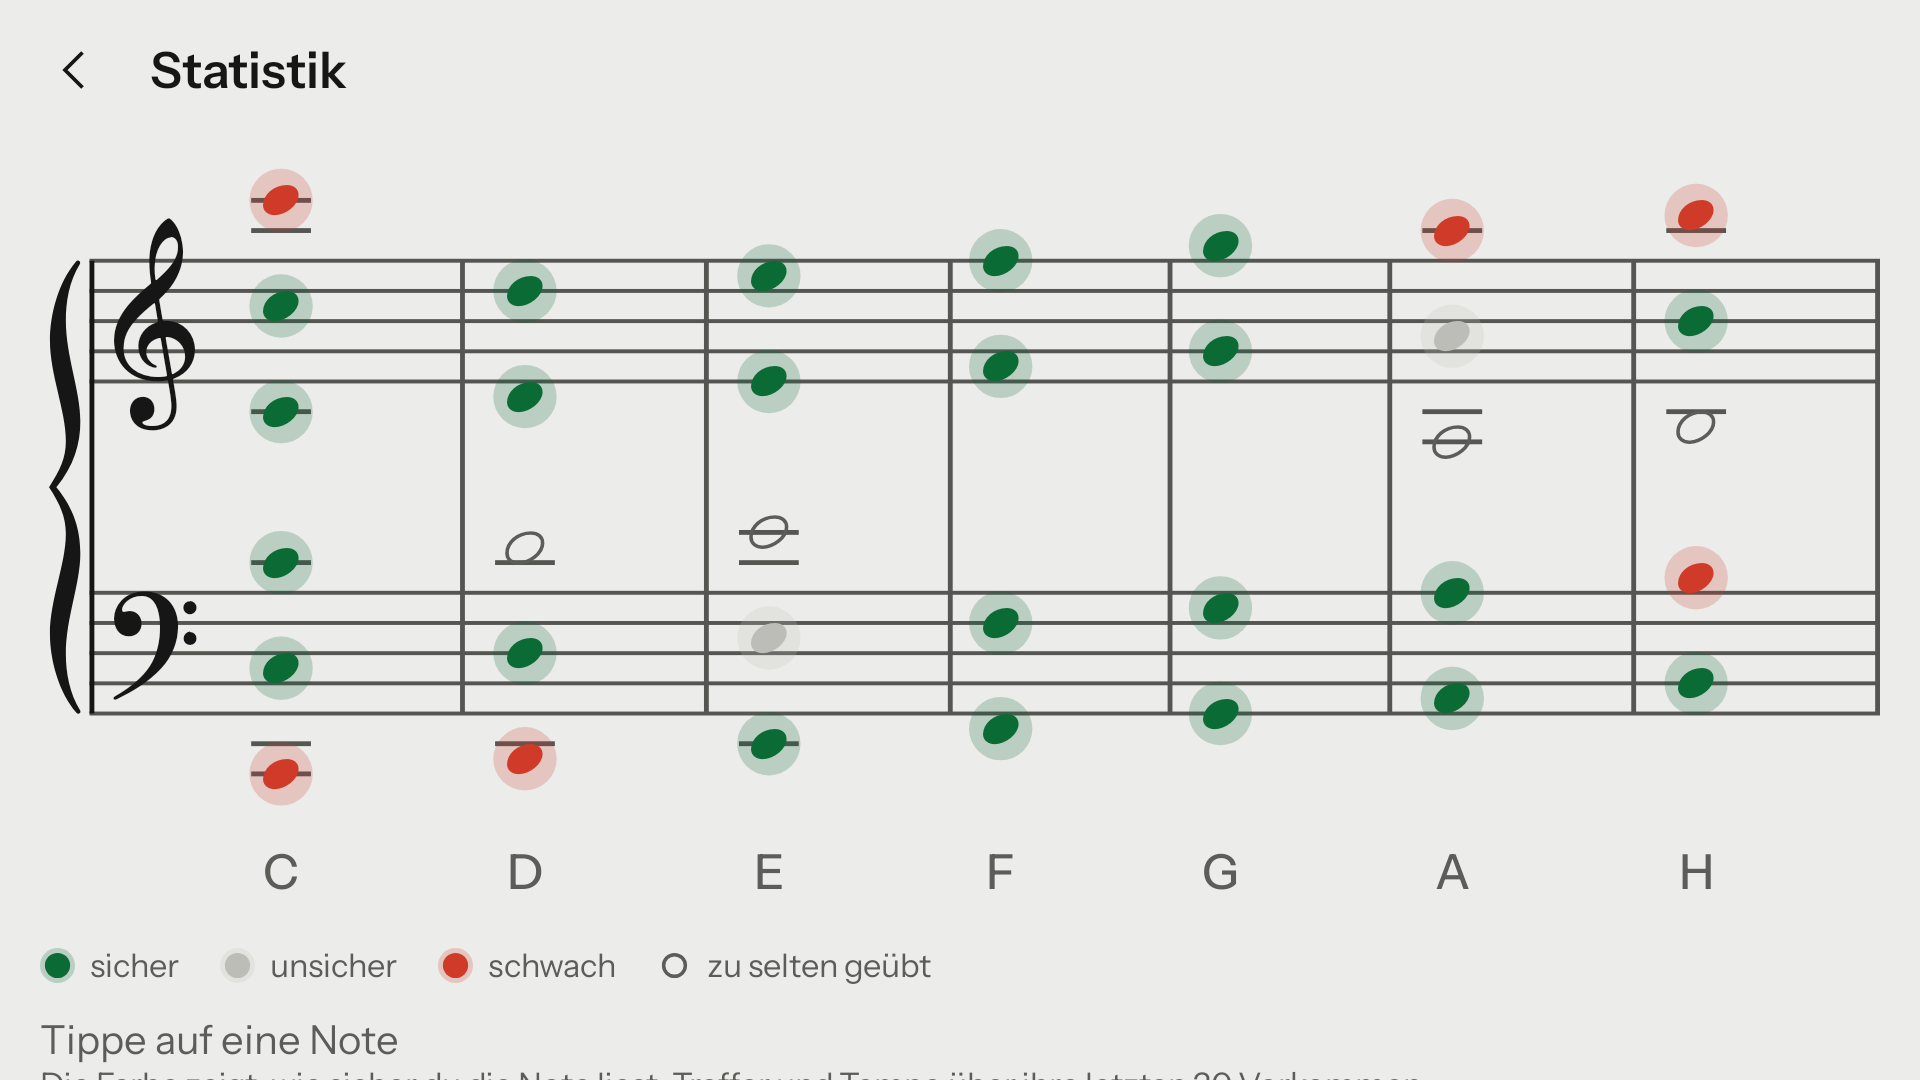
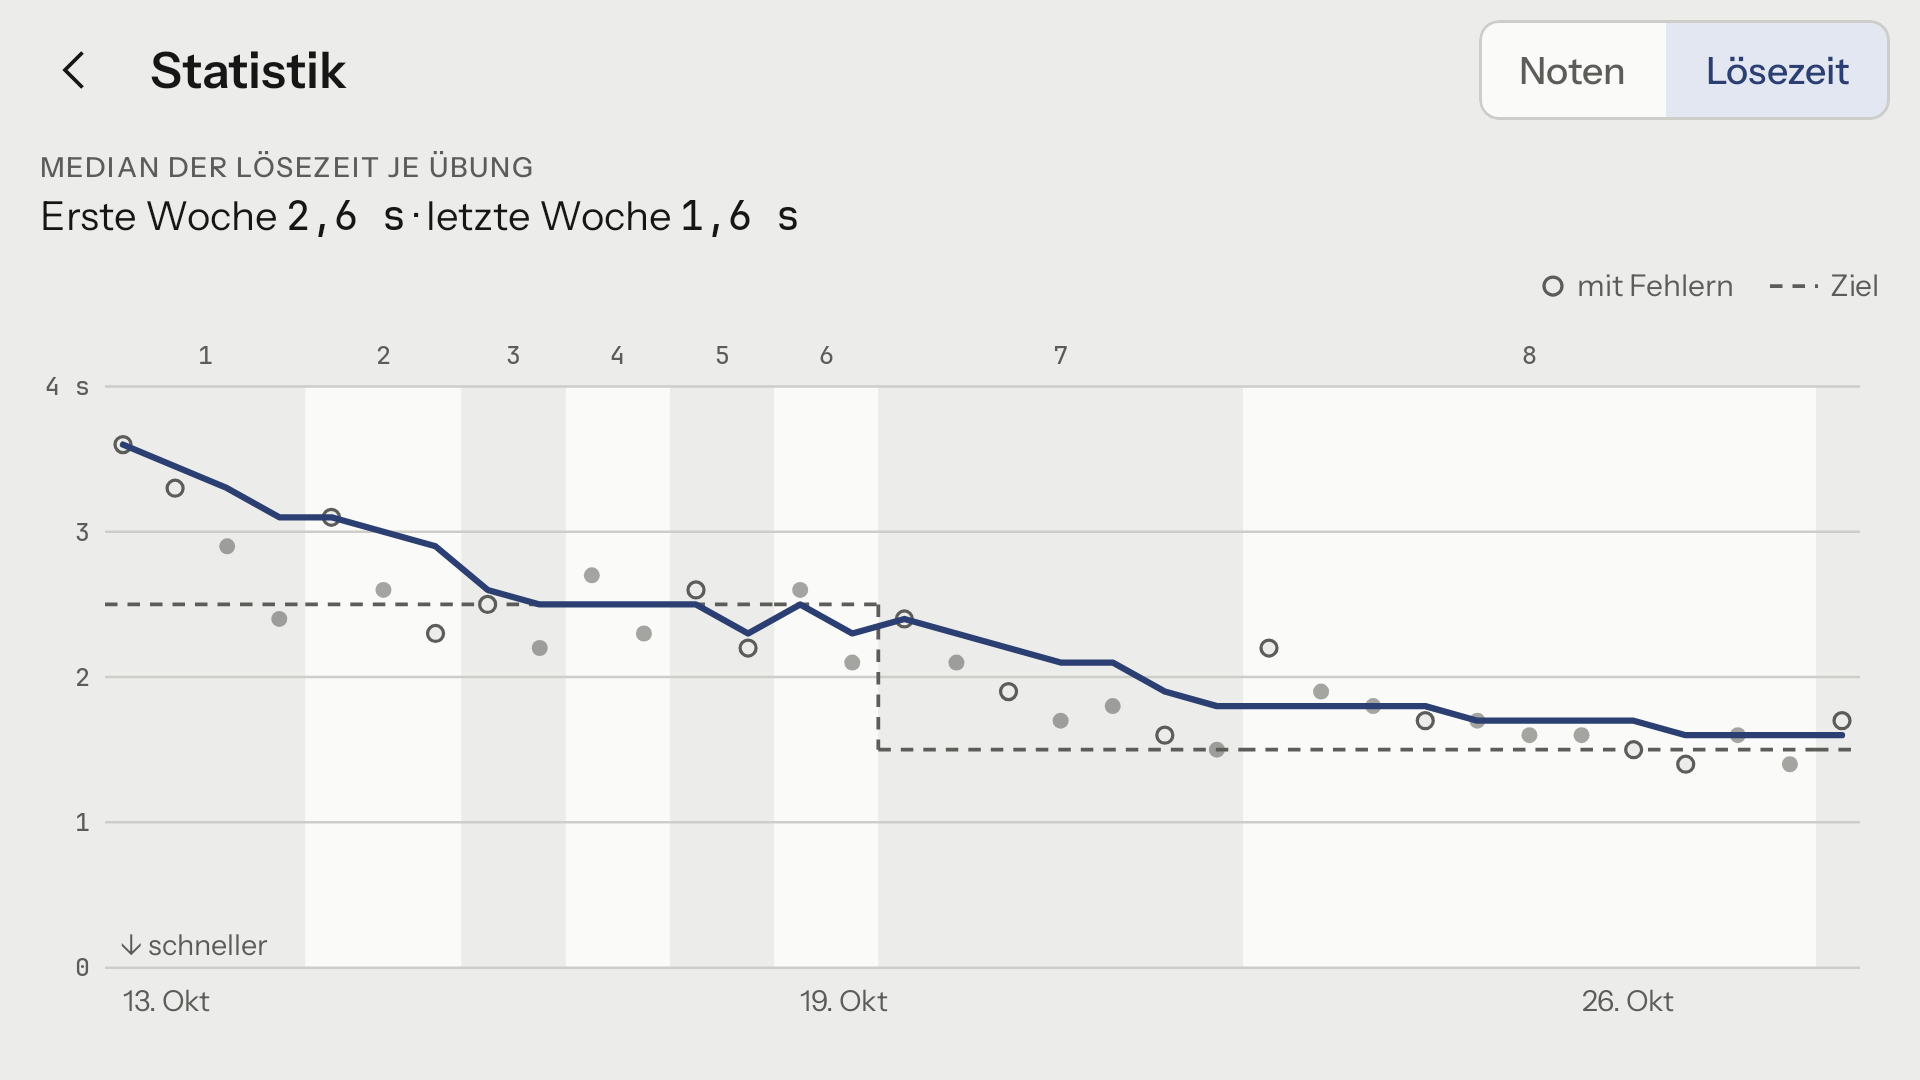
feat(home): Startseite und Ratgeber 5 für 1.1.0
Grundlagen im Readout „Frei 1–9“, neue Datenblatt-Zeile „Vorwissen“,
Vollversion „Die Grundlagen und Level 1 bis 9 sind frei“, neue zweite
Frage „Ich kann noch gar keine Noten lesen. Geht das?“ (DE und EN).
„So sieht es aus“ zeigt Grundlagen-Einheit · Übung · Statistik mit
Lösezeit-Kurve aus den Play-Store-Bildern 2_basics, 1_exercise und
5_statistics; result.png fällt weg, weil nur die Startseite es nutzte.
Ratgeber 5 nennt die Grundlagen im Stavewise-Absatz und im Preis-Satz.

stavewise#924

diff --git a/src/texts/home.ts b/src/texts/home.ts
@@ -7,6 +7,8 @@ import type { Lang, PageName } from '../lib/i18n';
 // store listing (open question 1 in #591, Leo checks it in the [Leo] PR).
 // No "real melodies", no price, no "never" (#539, #542 decision 7).
 // German is gender-inclusive with the colon: Tester:in, Klavierlehrer:innen.
+// Release 1.1.0 (launch § 6.1 and its addendum, stavewise#924): the basics in the
+// readout, the data sheet, the full-version card, the second question and the screenshots.
 
 export interface Readout {
   label: string;
@@ -45,9 +47,9 @@ export interface HomeTexts {
   /** Rows of the data sheet: [what, answer]. */
   sheet: readonly (readonly [string, string])[];
   shotsTitle: string;
-  shotAlts: { exercise: string; result: string; statistics: string };
+  shotAlts: { basics: string; exercise: string; statistics: string };
   /** Short caption line under each screenshot, after its figure number. */
-  shotCaptions: { exercise: string; result: string; statistics: string };
+  shotCaptions: { basics: string; exercise: string; statistics: string };
   waysTitle: string;
   ways: readonly Way[];
   fullLabel: string;
@@ -79,13 +81,14 @@ export const home: Record<Lang, HomeTexts> = {
     scoreLabel: 'Notenbeispiel in B-Dur, beide Hände: Die Markierung wartet auf jeder Note, bis die richtigen Tasten gedrückt sind. Richtig gespielte Noten werden grün, ein Fehlgriff erscheint rot.',
     readouts: [
       { label: 'Level', value: '65', note: 'vom ersten Schlüssel bis Moll mit Umkehrungen' },
-      { label: 'Frei', value: '1–9', note: 'Level ohne Kauf, dazu Statistik und Streak' },
+      { label: 'Frei', value: '1–9', note: 'Level ohne Kauf, dazu Grundlagen, Statistik und Streak' },
       { label: 'Android', value: '12+', note: 'Phone quer, Tablet in beide Richtungen' },
       { label: 'Konto', value: 'keines', spelled: true, note: 'offline, die App schickt nichts an uns' },
     ],
     sheetTitle: 'Was Stavewise macht',
     sheet: [
       ['Was du liest', 'Melodien mit Kadenz'],
+      ['Vorwissen', 'keines, die Grundlagen fangen bei den Tasten an'],
       ['Notensystem', 'Klaviersystem ab Tag 1'],
       ['Wie du antwortest', 'am E-Piano, per MIDI'],
       ['Bezahlen', 'einmal, kein Abo'],
@@ -93,14 +96,14 @@ export const home: Record<Lang, HomeTexts> = {
     ],
     shotsTitle: 'So sieht es aus',
     shotAlts: {
+      basics: 'Grundlagen, Einheit 6 „Das G im Violinschlüssel“: Noten im Klaviersystem, darüber eine beschriftete Klaviatur und die Rückmeldung „Richtig: das G.“',
       exercise: 'Übung im Klaviersystem mitten in der Phrase, gespielte Noten grün',
-      result: 'Ergebnis: Level gemeistert, mit Genauigkeit, Lösezeit und dem nächsten Level',
-      statistics: 'Statistik als Heatmap: welche Noten du sicher liest und welche nicht',
+      statistics: 'Statistik, Ansicht Lösezeit: ein Punkt je Übung über Level 1 bis 8, die Kurve fällt von 2,6 s in der ersten auf 1,6 s in der letzten Woche',
     },
     shotCaptions: {
+      basics: 'Grundlagen: von den Tasten zu den ersten Noten.',
       exercise: 'Mitten in der Phrase: gespielte Noten werden grün.',
-      result: 'Level gemeistert, mit Genauigkeit und Lösezeit.',
-      statistics: 'Welche Noten du sicher liest und welche nicht.',
+      statistics: 'Deine Lösezeit, Übung für Übung.',
     },
     waysTitle: 'Zwei Wege zum Klavier',
     ways: [
@@ -125,7 +128,7 @@ export const home: Record<Lang, HomeTexts> = {
     ],
     fullLabel: 'Vollversion',
     fullWell: 'einmal',
-    fullText: 'Level 1 bis 9 sind frei. Die Vollversion mit allen 65 Leveln und dem Sandkasten kaufst du einmal in Google Play: kein Abo, keine Werbung.',
+    fullText: 'Die Grundlagen und Level 1 bis 9 sind frei. Die Vollversion mit allen 65 Leveln und dem Sandkasten kaufst du einmal in Google Play: kein Abo, keine Werbung.',
     teacherLabel: 'Für Klavierlehrer:innen',
     teacherTitle: 'Vollversion kostenlos',
     teacherBefore: 'Wenn du unterrichtest, schreib an',
@@ -136,6 +139,12 @@ export const home: Record<Lang, HomeTexts> = {
         question: 'Passt mein Klavier?',
         answers: [
           'Wenn es eine USB-Buchse „USB to Host“ hat oder Bluetooth-MIDI, sehr wahrscheinlich. Für USB brauchst du zusätzlich einen OTG-Adapter für dein Phone oder Tablet. Ein akustisches Klavier geht nicht.',
+        ],
+      },
+      {
+        question: 'Ich kann noch gar keine Noten lesen. Geht das?',
+        answers: [
+          'Ja. Die Grundlagen beginnen bei den schwarzen Tasten: In sieben kurzen Einheiten findest du das mittlere C und liest C und G im Violinschlüssel. Danach geht es mit Level 1 weiter. Die Grundlagen sind kostenlos.',
         ],
       },
       {
@@ -180,27 +189,28 @@ export const home: Record<Lang, HomeTexts> = {
     scoreLabel: 'Score in B-flat major, both hands: the playhead waits on each note until the right keys are pressed. Notes played correctly turn green, a wrong key shows in red.',
     readouts: [
       { label: 'Levels', value: '65', note: 'from the first clef to minor with inversions' },
-      { label: 'Free', value: '1–9', note: 'levels without buying, plus statistics and streak' },
+      { label: 'Free', value: '1–9', note: 'levels without buying, plus the basics, statistics and streak' },
       { label: 'Android', value: '12+', note: 'phone in landscape, tablet either way' },
       { label: 'Account', value: 'none', spelled: true, note: 'offline, the app sends nothing to us' },
     ],
     sheetTitle: 'What Stavewise does',
     sheet: [
       ['What you read', 'melodies with a cadence'],
+      ['Experience', 'none, the basics start at the keys'],
       ['Staff', 'grand staff from day one'],
       ['How you answer', 'on your digital piano, via MIDI'],
       ['Paying', 'once, no subscription'],
     ],
     shotsTitle: 'What it looks like',
     shotAlts: {
+      basics: 'Basics, unit 6 “G in the treble clef”: notes on the grand staff, a labelled keyboard beside them and the feedback “Right: G.”',
       exercise: 'Exercise on the grand staff in the middle of a phrase, played notes in green',
-      result: 'Result: level mastered, with accuracy, solve time and the next level',
-      statistics: 'Statistics as a heatmap: which notes you read confidently and which you don’t',
+      statistics: 'Statistics, solve time view: one dot per exercise across levels 1 to 8, the curve falls from 2.6 s in the first week to 1.6 s in the last',
     },
     shotCaptions: {
+      basics: 'Basics: from the keys to your first notes.',
       exercise: 'Mid-phrase: played notes turn green.',
-      result: 'Level mastered, with accuracy and solve time.',
-      statistics: 'Which notes you read confidently and which you don’t.',
+      statistics: 'Your solve time, exercise by exercise.',
     },
     waysTitle: 'Two ways to your piano',
     ways: [
@@ -225,7 +235,7 @@ export const home: Record<Lang, HomeTexts> = {
     ],
     fullLabel: 'Full version',
     fullWell: 'once',
-    fullText: 'Levels 1 to 9 are free. The full version with all 65 levels and the sandbox is a one-time purchase in Google Play: no subscription, no ads.',
+    fullText: 'The basics and levels 1 to 9 are free. The full version with all 65 levels and the sandbox is a one-time purchase in Google Play: no subscription, no ads.',
     teacherLabel: 'For piano teachers',
     teacherTitle: 'Full version for free',
     teacherBefore: 'If you teach, write to',
@@ -236,6 +246,12 @@ export const home: Record<Lang, HomeTexts> = {
         question: 'Will my piano work?',
         answers: [
           'If it has a “USB to Host” port or Bluetooth MIDI, very likely. For USB you also need an OTG adapter for your phone or tablet. An acoustic piano won’t work.',
+        ],
+      },
+      {
+        question: 'I can’t read music at all yet. Can I still start?',
+        answers: [
+          'Yes. The basics start at the black keys: in seven short units you find middle C and read C and G in the treble clef. Then you carry on with level 1. The basics are free.',
         ],
       },
       {

diff --git a/tests/dist/home.test.ts b/tests/dist/home.test.ts
@@ -22,18 +22,50 @@ const GUIDE_LINKS = {
   en: { ways: 'Step-by-step guide →', more: 'More' },
 } as const;
 
-/** Captions under the three screenshots: figure number, then the line. */
+/** Captions under the three screenshots: figure number, then the line (launch § 6.1 Nr. 5, from 1.1.0). */
 const CAPTIONS = {
   de: [
-    ['1', 'Mitten in der Phrase: gespielte Noten werden grün.'],
-    ['2', 'Level gemeistert, mit Genauigkeit und Lösezeit.'],
-    ['3', 'Welche Noten du sicher liest und welche nicht.'],
+    ['1', 'Grundlagen: von den Tasten zu den ersten Noten.'],
+    ['2', 'Mitten in der Phrase: gespielte Noten werden grün.'],
+    ['3', 'Deine Lösezeit, Übung für Übung.'],
   ],
   en: [
-    ['1', 'Mid-phrase: played notes turn green.'],
-    ['2', 'Level mastered, with accuracy and solve time.'],
-    ['3', 'Which notes you read confidently and which you don’t.'],
+    ['1', 'Basics: from the keys to your first notes.'],
+    ['2', 'Mid-phrase: played notes turn green.'],
+    ['3', 'Your solve time, exercise by exercise.'],
   ],
+} as const;
+
+/** Note of the readout "Frei 1–9" (launch § 6.1 Nr. 3, from 1.1.0). */
+const FREE_NOTES = {
+  de: 'Level ohne Kauf, dazu Grundlagen, Statistik und Streak',
+  en: 'levels without buying, plus the basics, statistics and streak',
+} as const;
+
+/** Second row of the data sheet (launch § 6.1 Nr. 4, from 1.1.0). */
+const EXPERIENCE_ROWS = {
+  de: ['Vorwissen', 'keines, die Grundlagen fangen bei den Tasten an'],
+  en: ['Experience', 'none, the basics start at the keys'],
+} as const;
+
+/** Start of the full-version card (launch § 6.1 Nr. 7, from 1.1.0). */
+const FULL_TEXT_STARTS = {
+  de: 'Die Grundlagen und Level 1 bis 9 sind frei.',
+  en: 'The basics and levels 1 to 9 are free.',
+} as const;
+
+/** Second question, German word for word (launch § 6.1 Nr. 8, from 1.1.0); English in the tone of the page. */
+const NO_READING = {
+  de: {
+    question: 'Ich kann noch gar keine Noten lesen. Geht das?',
+    answer:
+      'Ja. Die Grundlagen beginnen bei den schwarzen Tasten: In sieben kurzen Einheiten findest du das mittlere C und liest C und G im Violinschlüssel. Danach geht es mit Level 1 weiter. Die Grundlagen sind kostenlos.',
+  },
+  en: {
+    question: 'I can’t read music at all yet. Can I still start?',
+    answer:
+      'Yes. The basics start at the black keys: in seven short units you find middle C and read C and G in the treble clef. Then you carry on with level 1. The basics are free.',
+  },
 } as const;
 
 /** Sixth question, word for word (launch § 15.8 Nr. 3, stavewise#830). */
@@ -114,17 +146,37 @@ describe.each(['de', 'en'] as const)('/%s/ home page', (lang) => {
     expect(wells).toEqual(['65', '1–9', '12+', lang === 'de' ? 'keines' : 'none']);
   });
 
-  it('has a data sheet with five rows in German, four in English', () => {
-    expect(main().querySelectorAll('.sheet tr')).toHaveLength(lang === 'de' ? 5 : 4);
+  it('notes the basics under the free levels', () => {
+    const free = [...main().querySelectorAll('.readouts .readout')][1];
+    expect(textOf(free?.querySelector('small'))).toBe(FREE_NOTES[lang]);
   });
 
-  it('has six questions as <details>, the first one open', () => {
+  it('has a data sheet with six rows in German, five in English', () => {
+    expect(main().querySelectorAll('.sheet tr')).toHaveLength(lang === 'de' ? 6 : 5);
+  });
+
+  it('names the prior knowledge in the second row of the data sheet', () => {
+    const row = main().querySelectorAll('.sheet tr')[1];
+    expect([textOf(row?.querySelector('th')), textOf(row?.querySelector('td'))]).toEqual(EXPERIENCE_ROWS[lang]);
+  });
+
+  it('frees the basics and levels 1 to 9 on the full-version card', () => {
+    expect(textOf(main().querySelector('.split .card.price p'))?.startsWith(FULL_TEXT_STARTS[lang])).toBe(true);
+  });
+
+  it('has seven questions as <details>, the first one open', () => {
     const details = [...main().querySelectorAll('details')];
-    expect(details).toHaveLength(6);
-    expect(details.map((d) => d.hasAttribute('open'))).toEqual([true, false, false, false, false, false]);
+    expect(details).toHaveLength(7);
+    expect(details.map((d) => d.hasAttribute('open'))).toEqual([true, false, false, false, false, false, false]);
   });
 
-  it('explains early access in the sixth question and links /beta from the answer', () => {
+  it('answers readers who can’t read music yet in the second question', () => {
+    const second = main().querySelectorAll('.faq details')[1]!;
+    expect(textOf(second.querySelector('summary'))).toBe(NO_READING[lang].question);
+    expect([...second.querySelectorAll('div > p')].map((p) => textOf(p))).toEqual([NO_READING[lang].answer]);
+  });
+
+  it('explains early access in the last question and links /beta from the answer', () => {
     const last = [...main().querySelectorAll('.faq details')].at(-1)!;
     expect(textOf(last.querySelector('summary'))).toBe(EARLY_ACCESS[lang].question);
     const paragraphs = [...last.querySelectorAll('div > p')];
@@ -171,6 +223,13 @@ describe.each(['de', 'en'] as const)('/%s/ home page', (lang) => {
     expect(captions).toEqual(CAPTIONS[lang]);
   });
 
+  it('shows the basics, an exercise and the solve-time curve, in this order', () => {
+    const alts = imagesOf(doc()).map((img) => img.getAttribute('alt') ?? '');
+    const starts = lang === 'de' ? ['Grundlagen', 'Übung', 'Statistik'] : ['Basics', 'Exercise', 'Statistics'];
+    expect(alts.map((alt, i) => alt.startsWith(starts[i]!))).toEqual([true, true, true]);
+    expect(alts[2]).toMatch(lang === 'de' ? /Lösezeit/ : /solve time/);
+  });
+
   it('links the support address for teachers', () => {
     const hrefs = [...main().querySelectorAll('a')].map((a) => a.getAttribute('href'));
     expect(hrefs).toContain('mailto:support@stavewise.app');
@@ -178,11 +237,15 @@ describe.each(['de', 'en'] as const)('/%s/ home page', (lang) => {
 });
 
 describe('home page images', () => {
-  it('uses a different result screenshot in English', () => {
-    const resultOf = (lang: 'de' | 'en') => imagesOf(documentOf(`/${lang}/`))[1]?.getAttribute('src');
-    expect(resultOf('de')).toBeTruthy();
-    expect(resultOf('en')).toBeTruthy();
-    expect(resultOf('en')).not.toBe(resultOf('de'));
+  it('uses its own screenshots in English', () => {
+    const srcsOf = (lang: 'de' | 'en') => imagesOf(documentOf(`/${lang}/`)).map((img) => img.getAttribute('src'));
+    const [de, en] = [srcsOf('de'), srcsOf('en')];
+    expect(de).toHaveLength(3);
+    expect(en).toHaveLength(3);
+    de.forEach((src, i) => {
+      expect(src).toBeTruthy();
+      expect(en[i]).not.toBe(src);
+    });
   });
 
   it('ships no PNG screenshot in dist/', () => {

diff --git a/src/texts/guides/app.ts b/src/texts/guides/app.ts
@@ -3,7 +3,8 @@
 // for Android (MIDI, both hands, no subscription, offline). Other apps are named factually with the
 // date their Play listings were checked, without a table of ticks; every app claim links its Play
 // listing or the maker's help page. Stavewise comes at the end (launch § 14.3) and otherwise only in
-// the disclosure and the closing card (launch § 14.5). No amount (launch § 6.1).
+// the disclosure and the closing card (launch § 14.5). No amount (launch § 6.1). From 1.1.0 the
+// Stavewise section names the basics (launch § 6.1, addendum; stavewise#924).
 import { pathOf, type Lang } from '../../lib/i18n';
 import type { GuideTexts } from '../guide';
 import shotDe from '../../assets/screenshots/de/exercise-hero.png';
@@ -185,7 +186,7 @@ export const app: Record<Lang, GuideTexts> = {
         heading: 'Und Stavewise?',
         blocks: [
           {
-            p: 'Stavewise ist ein Trainer fürs Notenlesen: Die App zeigt kurze Melodien im Klaviersystem, du spielst sie mit beiden Händen am E-Piano, und sie prüft jede Taste per USB- oder Bluetooth-MIDI; das Piano koppelt sie selbst. Sie läuft offline und ohne Konto, auf Android ab Version 12. Zum Preis: Level 1 bis 9 frei, die Vollversion kaufst du einmal in Google Play, kein Abo.',
+            p: 'Stavewise ist ein Trainer fürs Notenlesen: Die App zeigt kurze Melodien im Klaviersystem, du spielst sie mit beiden Händen am E-Piano, und sie prüft jede Taste per USB- oder Bluetooth-MIDI; das Piano koppelt sie selbst. Sie läuft offline und ohne Konto, auf Android ab Version 12. Wer noch gar keine Noten lesen kann, fängt mit den Grundlagen an: In sieben kurzen Einheiten findest du das mittlere C und liest C und G im Violinschlüssel. Zum Preis: Grundlagen und Level 1 bis 9 frei, die Vollversion kaufst du einmal in Google Play, kein Abo.',
           },
           {
             p: 'Was sie nicht kann: Sie hört nicht über das Mikrofon, ein akustisches Klavier geht also nicht. Es gibt keine Songs und keine Fassung für das iPhone, und gerade läuft noch der offene Test. Das Bild zeigt eine Übung in B-Dur, in der beide Hände Akkorde spielen.',
@@ -373,7 +374,7 @@ export const app: Record<Lang, GuideTexts> = {
         heading: 'And Stavewise?',
         blocks: [
           {
-            p: 'Stavewise is a trainer for reading music: it shows short melodies on the grand staff, you play them with both hands on your digital piano, and it checks every key over USB or Bluetooth MIDI; it pairs the piano itself. It works offline and without an account, on Android 12 and later. On price: Levels 1 to 9 are free, you buy the full version once in Google Play, no subscription.',
+            p: 'Stavewise is a trainer for reading music: it shows short melodies on the grand staff, you play them with both hands on your digital piano, and it checks every key over USB or Bluetooth MIDI; it pairs the piano itself. It works offline and without an account, on Android 12 and later. If you can’t read music at all yet, you start with the basics: in seven short units you find middle C and read C and G in the treble clef. On price: the basics and levels 1 to 9 are free, you buy the full version once in Google Play, no subscription.',
           },
           {
             p: 'What it can’t do: it doesn’t listen through the microphone, so an acoustic piano won’t work. There are no songs and no iPhone version, and it is still in early access. The screenshot shows an exercise in B-flat major with chords in both hands.',

diff --git a/tests/dist/guides.test.ts b/tests/dist/guides.test.ts
@@ -438,10 +438,19 @@ describe('app (stavewise#720)', () => {
 
   // No amount (launch § 6.1), the fixed wording instead.
   it.each([
-    ['/de/noten-lesen-app-android', 'Level 1 bis 9 frei, die Vollversion kaufst du einmal in Google Play, kein Abo'],
-    ['/en/sight-reading-app-android', 'Levels 1 to 9 are free, you buy the full version once in Google Play, no subscription'],
+    ['/de/noten-lesen-app-android', 'Grundlagen und Level 1 bis 9 frei, die Vollversion kaufst du einmal in Google Play, kein Abo'],
+    ['/en/sight-reading-app-android', 'the basics and levels 1 to 9 are free, you buy the full version once in Google Play, no subscription'],
   ] as const)('%s describes the price without an amount', (path, wording) => {
     expect(text(documentOf(path).querySelector('main'))).toContain(wording);
+  });
+
+  // From 1.1.0 (launch § 6.1, Nachtrag): one sentence on the basics in the Stavewise section.
+  it.each([
+    ['/de/noten-lesen-app-android', 'Wer noch gar keine Noten lesen kann, fängt mit den Grundlagen an'],
+    ['/en/sight-reading-app-android', 'If you can’t read music at all yet, you start with the basics'],
+  ] as const)('%s points beginners to the basics in the Stavewise section', (path, wording) => {
+    const sections = sectionsOf(path);
+    expect(sections.at(-2)!.body).toContain(wording);
   });
 
   it.each(PATHS)('%s shows the app screenshot in a card and no demo still', (path) => {
